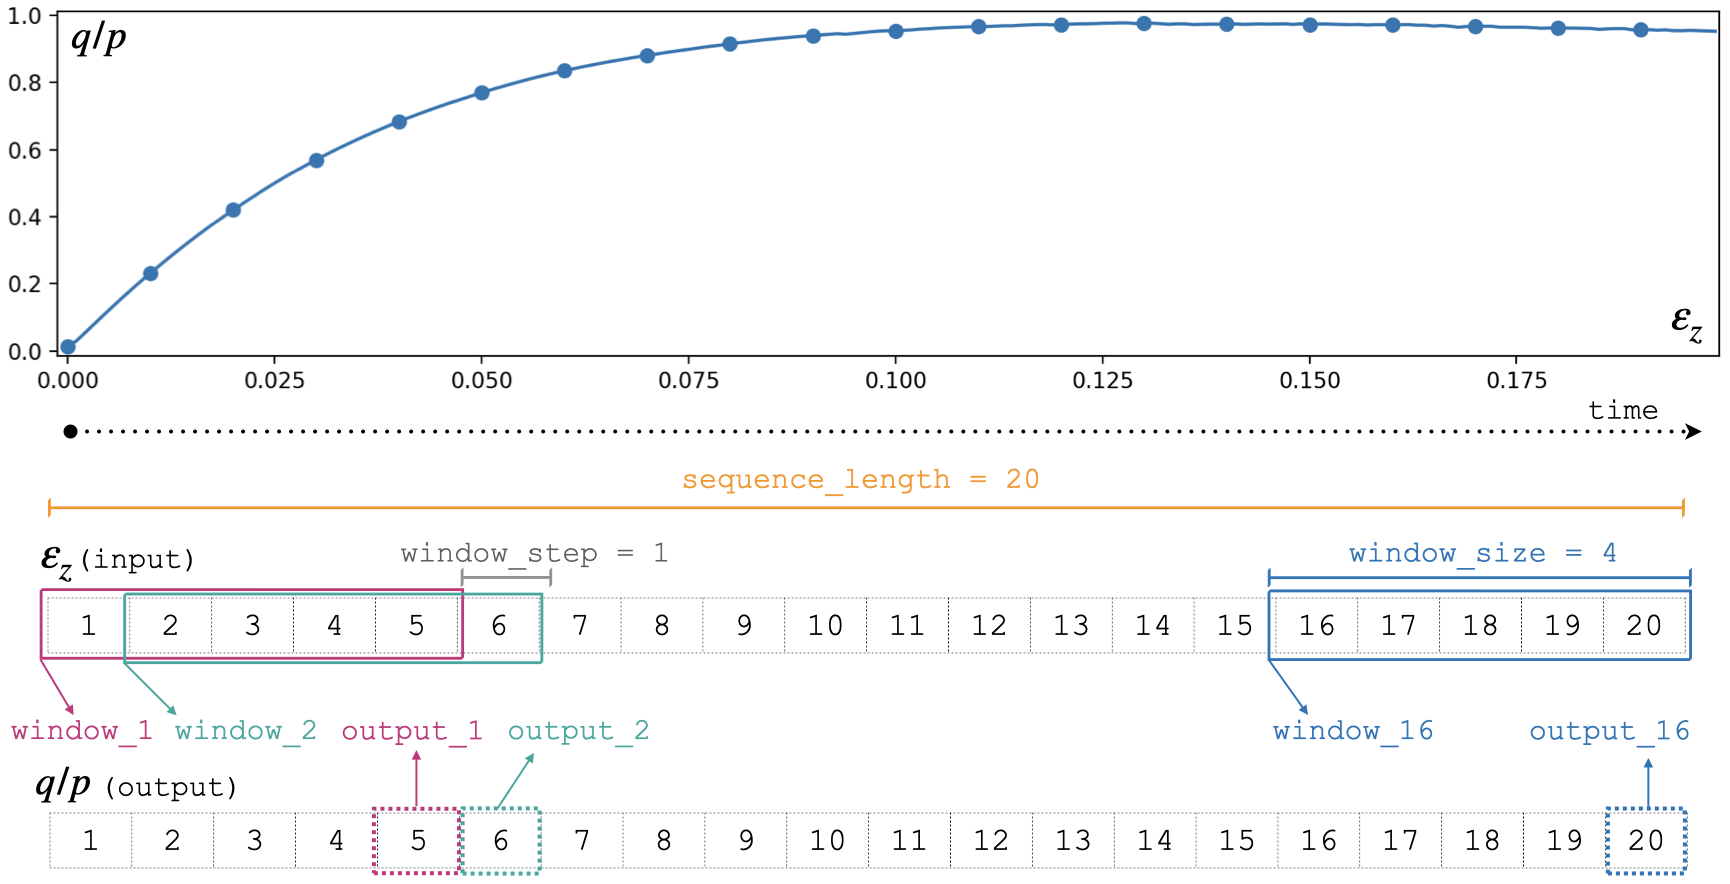
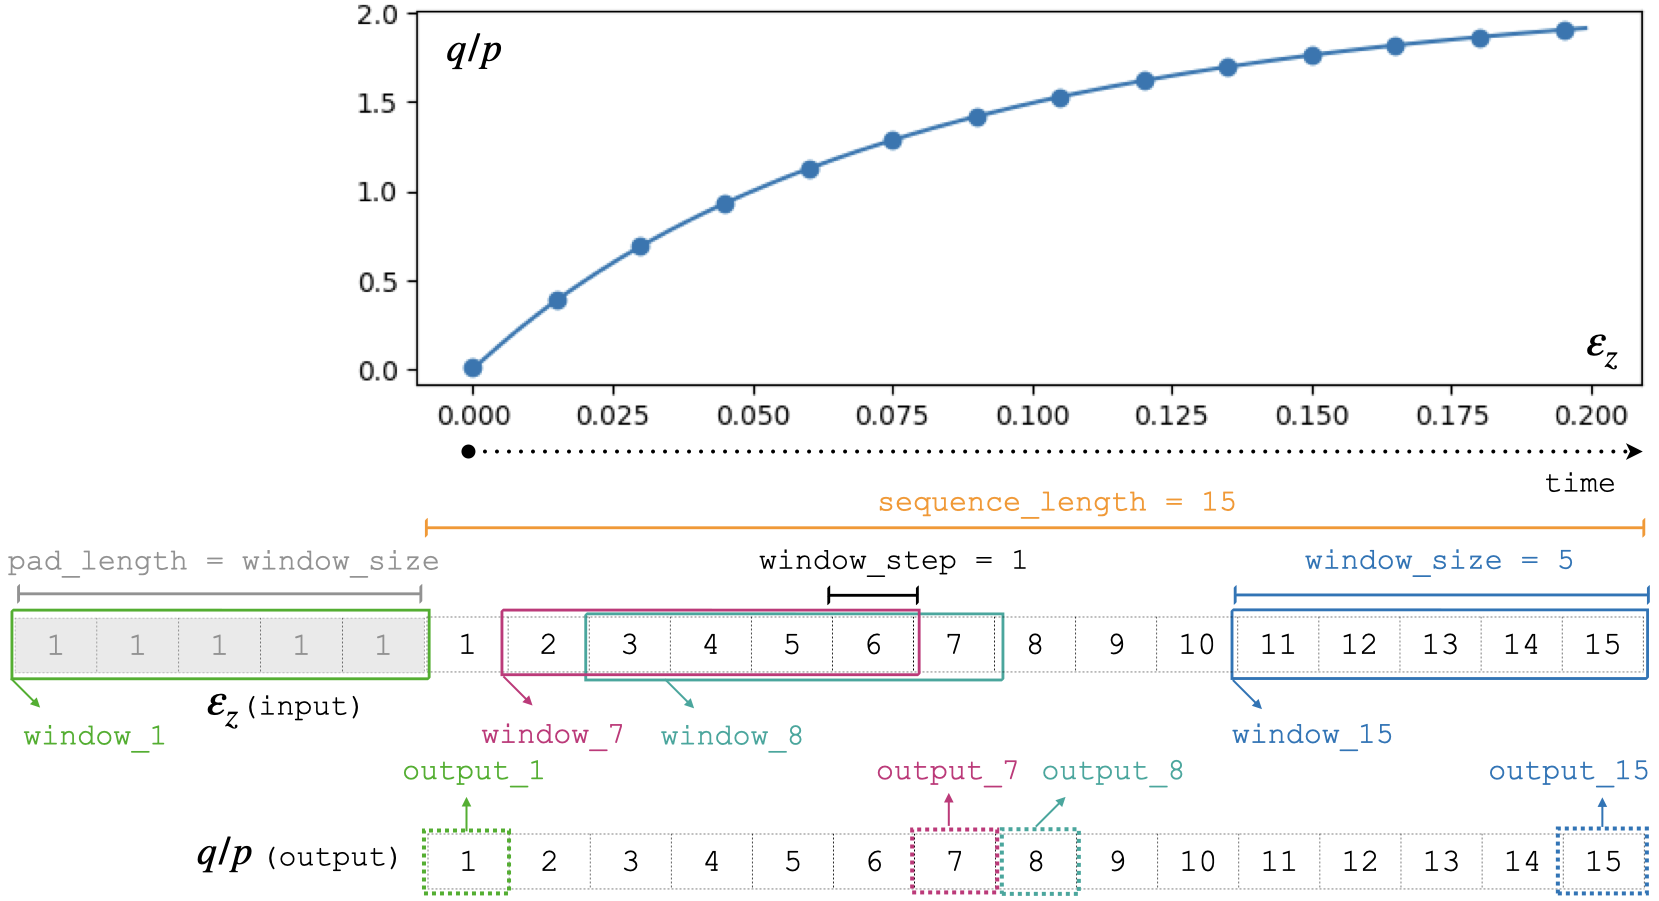
Improve links (#46)
* Adds some links between different README files

* Modifies the figure rnn_windows updating it to have explanaiton of how the padding is made.

* fix the asscertion errors that came with assert_array_almost_equal. Use assert_allclose instead

---------

diff --git a/tests/unit/test_sampling.py b/tests/unit/test_sampling.py
@@ -123,7 +123,7 @@ def test_regenerate_params():
     new_params = gmm_cls.regenerate_params(proposal, system_cls)
 
     #: Assert if the new parameters are correct
-    np.testing.assert_array_almost_equal(
+    np.testing.assert_allclose(
         new_params,
         np.array(
             [
@@ -133,7 +133,7 @@ def test_regenerate_params():
                 [5.66254261e+06, 2.67135646e-01]
             ]
         ),
-        0.0001,
+        rtol=0.001,
     )
 
     #: Make a new dummy proposal distribution
@@ -149,7 +149,7 @@ def test_regenerate_params():
     new_params = gmm_cls.regenerate_params(proposal, system_cls)
 
     #: Assert if the new parameters are correct
-    np.testing.assert_array_almost_equal(
+    np.testing.assert_allclose(
         new_params,
         np.array(
             [
@@ -159,7 +159,7 @@ def test_regenerate_params():
                 [4.23437500e+06, 3.35432099e-01]
             ]
         ),
-        0.0001,
+        rtol=0.001,
     )
 
 
@@ -194,16 +194,16 @@ def test_draw_samples_within_bounds():
     new_params = gmm_cls.draw_samples_within_bounds(system_cls, system_cls.num_samples)
 
     # Assert if the new parameters are generated correctly
-    np.testing.assert_array_almost_equal(
+    np.testing.assert_allclose(
         new_params,
         np.array(
             [
-                [5.28625749e+06, 2.64309176e-01],
-                [3.17723928e+06, 2.60832533e-01],
-                [4.08334948e+06, 3.34190765e-01]
+                [6.442085e+06, 3.272525e-01],
+                [5.109979e+06, 2.736598e-01],
+                [4.379674e+06, 3.722799e-01]
             ]
         ),
-        0.0001,
+        rtol=0.001,
     )
 
     #: Initialize a new Gaussian Mixture Model object

diff --git a/README.md b/README.md
@@ -10,7 +10,6 @@
 | Documentation                | [![Documentation Status](https://readthedocs.org/projects/grainlearning/badge/?version=latest)](https://grainlearning.readthedocs.io/en/latest/?badge=latest)|
 | Code Quality                | [![Coverage](https://sonarcloud.io/api/project_badges/measure?project=GrainLearning_grainLearning&metric=coverage)](https://sonarcloud.io/summary/new_code?id=GrainLearning_grainLearning) [![Quality Gate Status](https://sonarcloud.io/api/project_badges/measure?project=GrainLearning_grainLearning&metric=alert_status)](https://sonarcloud.io/summary/new_code?id=GrainLearning_grainLearning) |
 
-
 Bayesian uncertainty quantification for discrete and continuum numerical models of granular materials,
 developed by various projects of the University of Twente (NL), the Netherlands eScience Center (NL), University of
 Newcastle (AU), and Hiroshima University (JP).
@@ -45,6 +44,10 @@ Browse to the [GrainLearning documentation](https://grainlearning.readthedocs.io
 1. Go to the source code directory: `cd grainLearning`
 1. Activate the virtual environment: `conda create --name grainlearning python=3.8 && conda activate grainlearning`
 1. Install GrainLearning and its dependencies: `pip install .`
+
+__Developers__ please refer to [README.dev.md](README.dev.md).
+
+To install GrainLearning including the RNN module capabilities check [grainlearning/rnn/README.md](grainlearning/rnn/README.md).
 
 ### For Windows users
 
@@ -109,12 +112,11 @@ and [Takayuki Shuku](https://sites.google.com/view/takayukishukuswebsite/home).
 The software is currently maintained by [Hongyang Cheng](https://hongyangcheng.weebly.com) and [Stefan Luding](https://www2.msm.ctw.utwente.nl/sluding/) with the help
 of [Luisa Orozco](https://www.esciencecenter.nl/team/dr-luisa-orozco/)
 and [Retief Lubbe](https://tusail.eu/projects/esr-12.html).
-The GrainLearning project receives contributions from students and collaborators. For an exhaustive list,
-see [CONTRIBUTORS.md]().
+The GrainLearning project receives contributions from students and collaborators.
 
 ## Help and Support
 
-For assistance with the GrainLearning software, please raise an issue on the GitHub Issues page.
+For assistance with the GrainLearning software, please create an issue on the GitHub Issues page.
 
 ## Credits
 

diff --git a/grainlearning/rnn/README.md b/grainlearning/rnn/README.md
@@ -13,7 +13,7 @@ During the installation of grainLearning activate extra `rnn`:
 
 *Note:* This will install a version of tensorflow depending on your system. If gpu dependencies are not installed or activated, it will default to **CPU** version. Check the installation of tensorflow and/or re-install it following specific instructions for your hardware.
 
-For MacOS with arm64 processor, we recommend to install  tensorflow following [this](https://betterdatascience.com/install-tensorflow-2-7-on-macbook-pro-m1-pro/) and install grainLearning without `rnn` extra.
+> For MacOS with arm64 processor, we recommend to install  tensorflow following [this](https://betterdatascience.com/install-tensorflow-2-7-on-macbook-pro-m1-pro/) and install grainLearning without `rnn` extra. In this case if you want to have [weights and biases](https://wandb.ai/site) you can install it via `pip install wandb`.
 
 ## How to use
 
